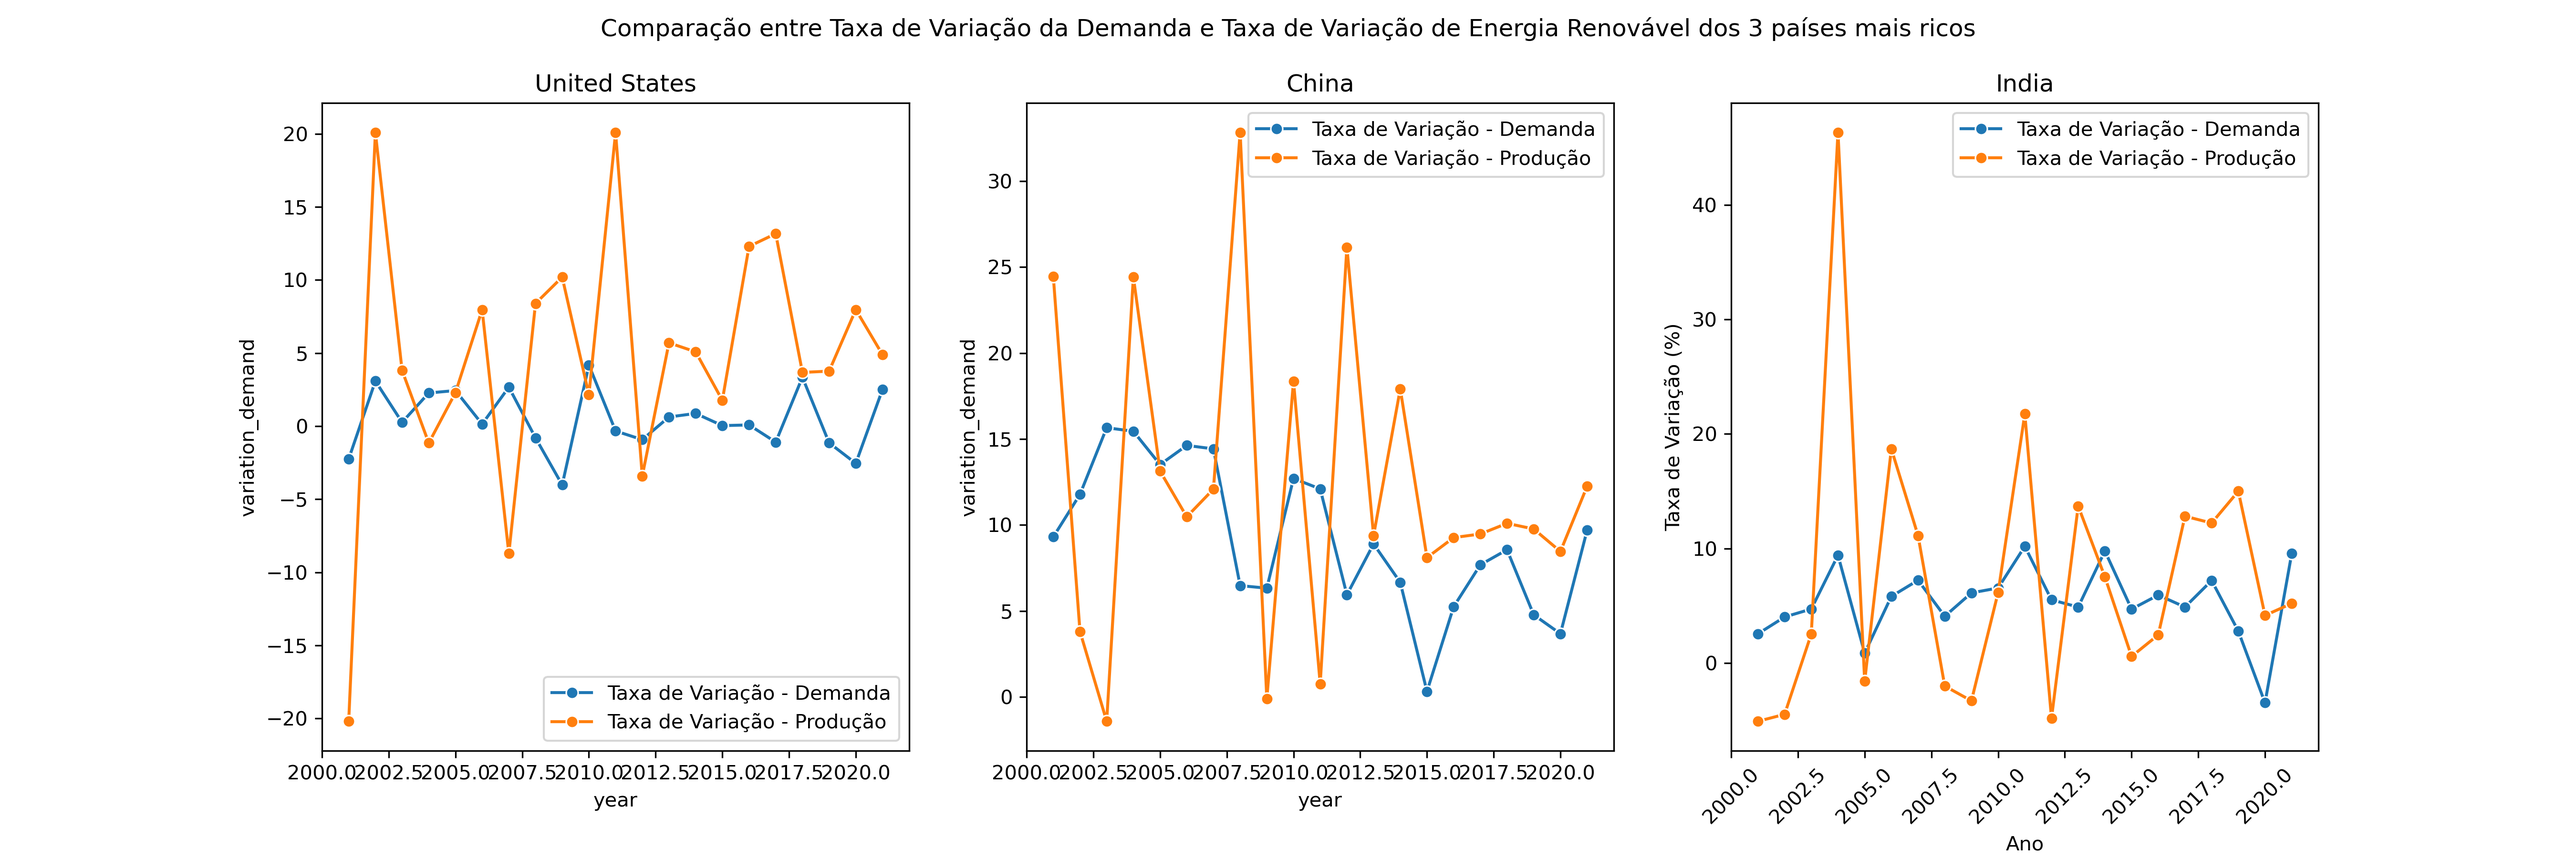
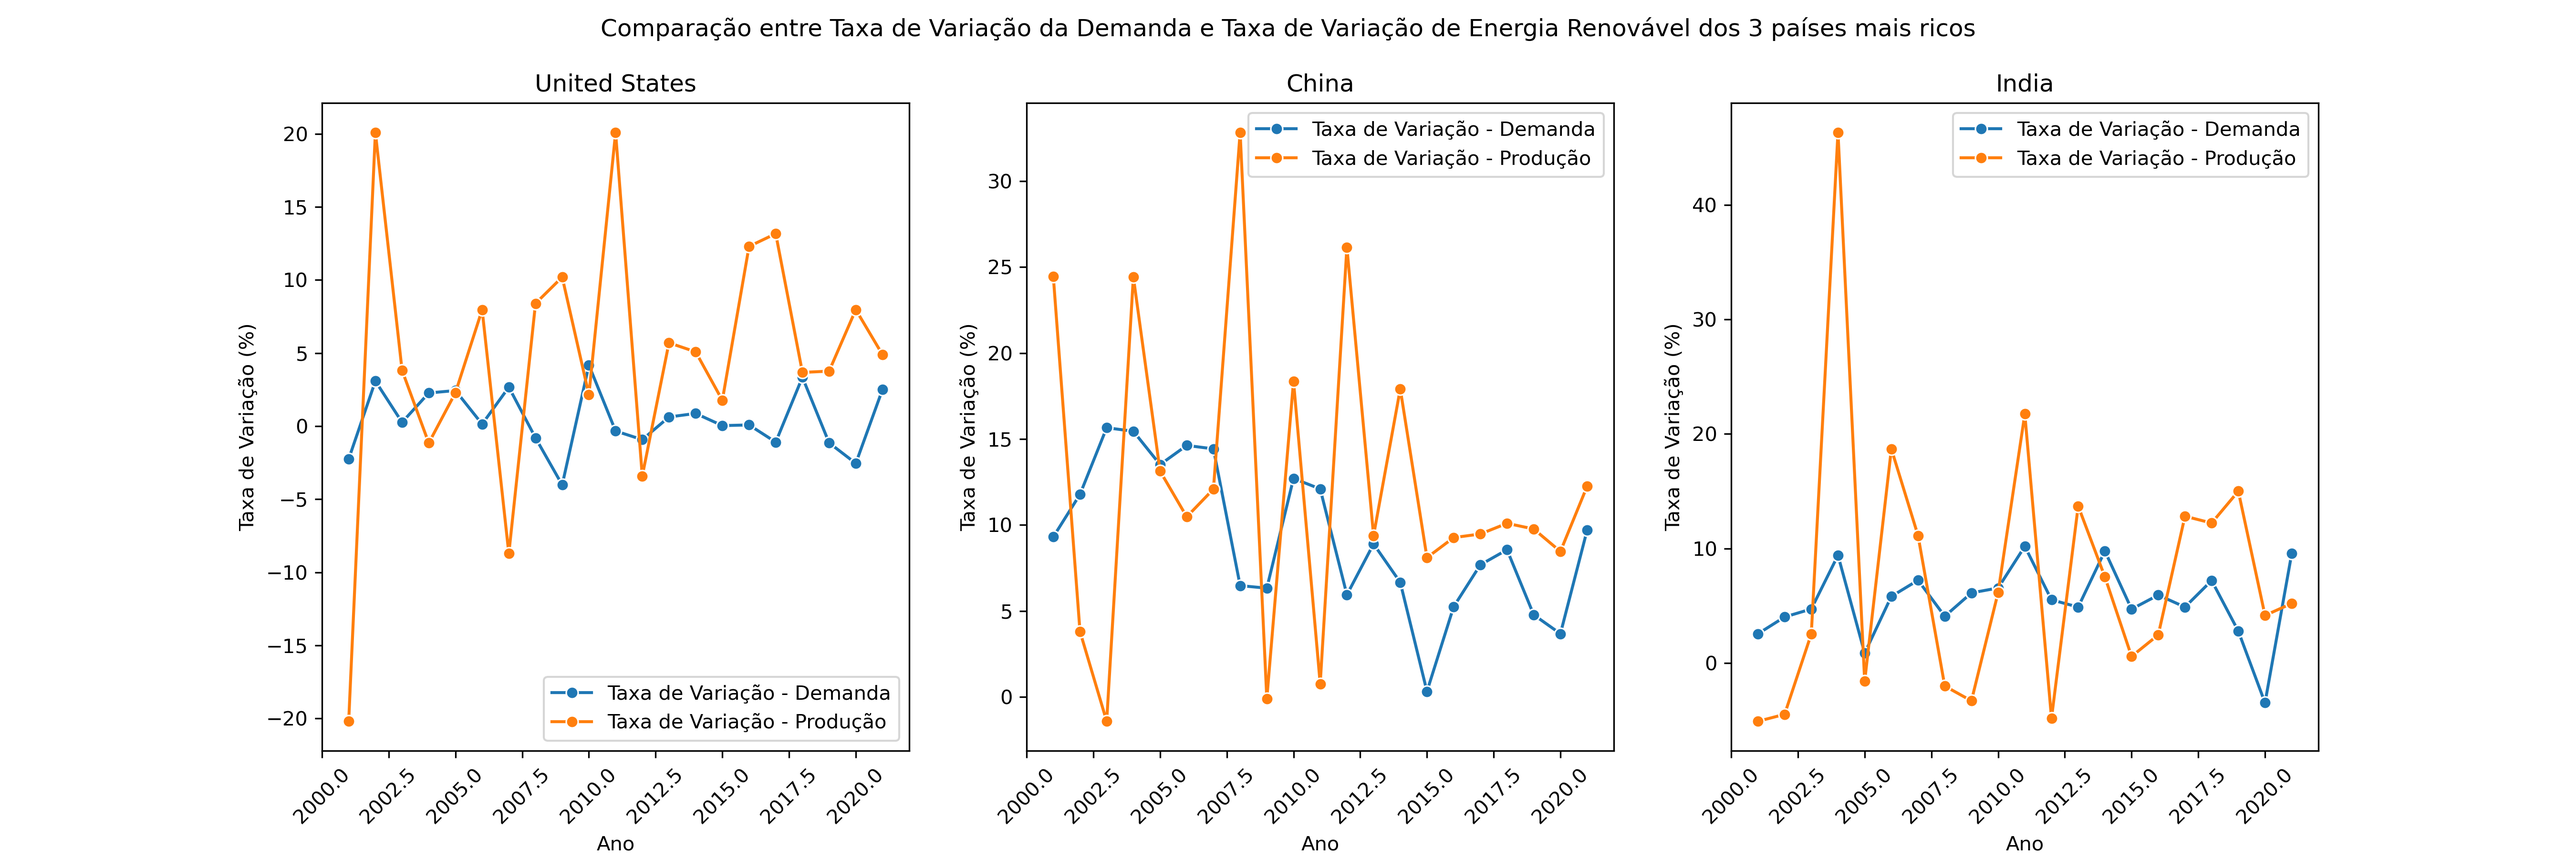
Arrumei os gráficos

Changed region(s): [[0.3733, 0.8711, 0.6222, 0.9644], [0.1244, 0.8711, 0.3422, 0.9644]]

diff --git a/src/demand_production_analysis.py b/src/demand_production_analysis.py
@@ -88,21 +88,26 @@ def plot_variation_in_the_richest_countries(df):
     sns.lineplot(x='year', y='variation_demand', data=df_rich_1, label='Taxa de Variação - Demanda', marker='o', ax=axes[0])
     sns.lineplot(x='year', y='variation_production', data=df_rich_1, label='Taxa de Variação - Produção', marker='o', ax=axes[0])
     axes[0].set_title(f"{rich_1}")
+    axes[0].set_xlabel('Ano')
+    axes[0].set_ylabel('Taxa de Variação (%)')
+    axes[0].tick_params(axis='x', rotation=45)
     
     sns.lineplot(x='year', y='variation_demand', data=df_rich_2, label='Taxa de Variação - Demanda', marker='o', ax=axes[1])
     sns.lineplot(x='year', y='variation_production', data=df_rich_2, label='Taxa de Variação - Produção', marker='o', ax=axes[1])
     axes[1].set_title(f"{rich_2}")
+    axes[1].set_xlabel('Ano')
+    axes[1].set_ylabel('Taxa de Variação (%)')
+    axes[1].tick_params(axis='x', rotation=45)
     
     sns.lineplot(x='year', y='variation_demand', data=df_rich_3, label='Taxa de Variação - Demanda', marker='o', ax=axes[2])
     sns.lineplot(x='year', y='variation_production', data=df_rich_3, label='Taxa de Variação - Produção', marker='o', ax=axes[2])
     axes[2].set_title(f"{rich_3}")
+    axes[2].set_xlabel('Ano')
+    axes[2].set_ylabel('Taxa de Variação (%)')
+    axes[2].tick_params(axis='x', rotation=45)
 
     # Adicionar títulos e rótulos
     fig.suptitle('Comparação entre Taxa de Variação da Demanda e Taxa de Variação de Energia Renovável dos 3 países mais ricos')
-    plt.xlabel('Ano')
-    plt.ylabel('Taxa de Variação (%)')
-    plt.legend()
-    plt.xticks(rotation=45)
     
     # Salvar gráfico
     plt.savefig('../plots/variation_in_the_richest_countries.png', dpi=300, format='png')
